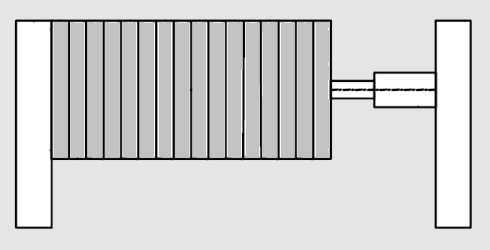
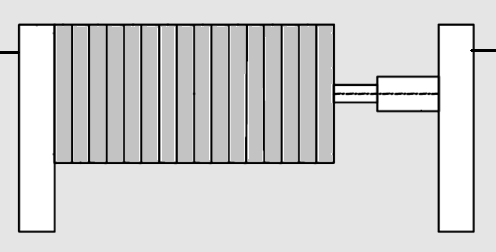
ProcessView GUI complete

Changed region(s): [[0.0, 0.056, 1.0, 0.952]]

diff --git a/BrewLogGui/ProcessView.cs b/BrewLogGui/ProcessView.cs
@@ -9,17 +9,17 @@ namespace BrewLogGui
     public class ProcessView : ProcessViewPictureBox
     {
         MashCopperView mashCopperView;
-        PumpView mashTransferPumpView;
+        MashTransferPumpView mashTransferPumpView;
         MashCoolerView mashCoolerView;
         MashTunView mashTunView;
-        PumpView mashFiltrationPumpView;
+        MashFiltrationPumpView mashFiltrationPumpView;
         MashFilterView mashFilterView;
         HoldingVesselView holdingVesselView;
-        PumpView wortPumpView;
+        WortPumpView wortPumpView;
         WortCopperView wortCopperView;
-        PumpView castingPumpView;
+        CastingPumpView castingPumpView;
         WhirlpoolView whirlpoolView;
-        PumpView coolingPumpView;
+        CoolingPumpView coolingPumpView;
         WortCoolerView wortCoolerView;
 
         // Equipment getters
@@ -31,7 +31,7 @@ namespace BrewLogGui
             }
         }
 
-        public PumpView MashTransferPumpView
+        public MashTransferPumpView MashTransferPumpView
         {
             get
             {
@@ -46,7 +46,7 @@ namespace BrewLogGui
             }
         }
 
-        public PumpView MashFiltrationPumpView
+        public MashFiltrationPumpView MashFiltrationPumpView
         {
             get
             {
@@ -70,7 +70,7 @@ namespace BrewLogGui
             }
         }
 
-        public PumpView WortPumpView
+        public WortPumpView WortPumpView
         {
             get
             {
@@ -86,7 +86,7 @@ namespace BrewLogGui
             }
         }
 
-        public PumpView CastingPumpView
+        public CastingPumpView CastingPumpView
         {
             get
             {
@@ -110,7 +110,7 @@ namespace BrewLogGui
             }
         }
 
-        public PumpView CoolingPumpView
+        public CoolingPumpView CoolingPumpView
         {
             get
             {
@@ -130,9 +130,11 @@ namespace BrewLogGui
         public ProcessView()
         {
             this.Size = new Size(1000, 500);
-            //String imgPathRel = GetImagePath("house.jpg");
+            String imgPathRel = GetImagePath("process_view.png");
 
-            //this.Image = new Bitmap(imgPathRel);
+            this.Image = new Bitmap(imgPathRel);
+            ScaleImage(this);
+
             this.BorderStyle = BorderStyle.FixedSingle;
             this.BackColor = Color.FromArgb(229,229,229);
             this.Show();
@@ -142,47 +144,48 @@ namespace BrewLogGui
 
         }
 
-        private void SetUpProcessEquipmentViews()
+        protected void SetUpProcessEquipmentViews()
         {
-            wortCoolerView = new WortCoolerView();
-            SetupProcessEquipmentView(wortCoolerView, 850, 200);
 
-            coolingPumpView = new PumpView("Cooling Pump");
-            SetupProcessEquipmentView(coolingPumpView, 800, 200);
+
+            wortCoolerView = new WortCoolerView();
+            SetupProcessEquipmentView(wortCoolerView, 915, 247);
+
+            coolingPumpView = new CoolingPumpView();
+            SetupProcessEquipmentView(coolingPumpView, 859, 245);
 
             whirlpoolView = new WhirlpoolView();
-            SetupProcessEquipmentView(whirlpoolView, 750, 0);
+            SetupProcessEquipmentView(whirlpoolView, 830, 90);
 
-            castingPumpView = new PumpView("Casting Pump");
-            SetupProcessEquipmentView(castingPumpView, 700, 200);
+            castingPumpView = new CastingPumpView();
+            SetupProcessEquipmentView(castingPumpView, 785, 245);
 
             wortCopperView = new WortCopperView();
-            SetupProcessEquipmentView(wortCopperView, 625, 0);
+            SetupProcessEquipmentView(wortCopperView, 678, 72);
 
-            wortPumpView = new PumpView("Wort Pump");
-            SetupProcessEquipmentView(wortPumpView, 600, 200);
+            wortPumpView = new WortPumpView();
+            SetupProcessEquipmentView(wortPumpView, 635, 240);
 
             holdingVesselView = new HoldingVesselView();
-            SetupProcessEquipmentView(holdingVesselView, 445, 0);
+            SetupProcessEquipmentView(holdingVesselView, 555, 80);
 
             mashFilterView = new MashFilterView();
-            SetupProcessEquipmentView(mashFilterView, 300, 200);
+            SetupProcessEquipmentView(mashFilterView, 376, 243);
 
-            mashFiltrationPumpView = new PumpView("Mash Filtration Pump");
-            SetupProcessEquipmentView(mashFiltrationPumpView, 250, 200);
+            mashFiltrationPumpView = new MashFiltrationPumpView();
+            SetupProcessEquipmentView(mashFiltrationPumpView, 319, 245);
 
             mashTunView = new MashTunView();
-            SetupProcessEquipmentView(mashTunView, 175, 0);
+            SetupProcessEquipmentView(mashTunView, 239, 50);
 
             mashCoolerView = new MashCoolerView();
-            SetupProcessEquipmentView(mashCoolerView, 85, 200);
+            SetupProcessEquipmentView(mashCoolerView, 175, 247);
 
-            mashTransferPumpView = new PumpView("Mash Transfer Pump");
-            SetupProcessEquipmentView(mashTransferPumpView, 0, 200);
+            mashTransferPumpView = new MashTransferPumpView();
+            SetupProcessEquipmentView(mashTransferPumpView, 123, 245);
 
             mashCopperView = new MashCopperView();
-            SetupProcessEquipmentView(mashCopperView, 0,0);
-
+            SetupProcessEquipmentView(mashCopperView, 85,50);
         }
 
         private void SetupProcessEquipmentView(ProcessEquipmentView processEquipmentView,

diff --git a/BrewLogGui/ProcessEquipmentViews/MashCopperView.cs b/BrewLogGui/ProcessEquipmentViews/MashCopperView.cs
@@ -1,17 +1,21 @@
 using System;
 namespace BrewLogGui.ProcessEquipmentViews
 {
-    public class MashCopperView : MashVesselView
+    public class MashCopperView : ProcessEquipmentView
     {
+        private static string _myRunFileName = "mash_copper_running.png";
+        private static string _myStopFileName = "mash_copper_idle.png";
         private static string _myProcessEquipment = "Mash Copper";
 
-        public MashCopperView() : this(_myProcessEquipment)
+        public MashCopperView() : this(_myProcessEquipment, _myStopFileName)
         {
             _processEquipment = _myProcessEquipment;
+            _stopFileName = _myStopFileName;
+            _runFileName = _myRunFileName;
         }
 
-        public MashCopperView(string processEquipment)
-            : base(processEquipment)
+        public MashCopperView(string processEquipment, string stopFileName)
+            : base(processEquipment, stopFileName)
         {
 
         }

diff --git a/BrewLogGui/ProcessEquipmentViews/MashTunView.cs b/BrewLogGui/ProcessEquipmentViews/MashTunView.cs
@@ -1,17 +1,22 @@
 using System;
 namespace BrewLogGui.ProcessEquipmentViews
 {
-    public class MashTunView : MashVesselView
+    public class MashTunView : ProcessEquipmentView
     {
+        private static string _myRunFileName = "mash_tun_running.png";
+        private static string _myStopFileName = "mash_tun_idle.png";
         private static string _myProcessEquipment = "Mash Tun";
 
-        public MashTunView() : this(_myProcessEquipment)
+        public MashTunView() : this(_myProcessEquipment, _myStopFileName)
         {
             _processEquipment = _myProcessEquipment;
+            _stopFileName = _myStopFileName;
+            _runFileName = _myRunFileName;
+            //
         }
 
-        public MashTunView(string processEquipment)
-            : base(processEquipment)
+        public MashTunView(string processEquipment, string stopFileName)
+            : base(processEquipment, stopFileName)
         {
 
         }

diff --git a/BrewLogGui/ProcessEquipmentViews/MashFiltrationPumpView.cs b/BrewLogGui/ProcessEquipmentViews/MashFiltrationPumpView.cs
@@ -1,0 +1,24 @@
+using System;
+namespace BrewLogGui.ProcessEquipmentViews
+{
+    public class MashFiltrationPumpView : ProcessEquipmentView
+    {
+        private static string _myRunFileName = "pump_top_to_right_running.png";
+        private static string _myStopFileName = "pump_top_to_right_idle.png";
+        private static string _myProcessEquipment = "Mash Filter Pump";
+
+        public MashFiltrationPumpView() : this(_myProcessEquipment, _myStopFileName)
+        {
+            _processEquipment = _myProcessEquipment;
+            _stopFileName = _myStopFileName;
+            _runFileName = _myRunFileName;
+        }
+
+        public MashFiltrationPumpView(string processEquipment, string stopFileName)
+            : base(processEquipment, stopFileName)
+        {
+
+        }
+
+    }
+}

diff --git a/BrewLogGui/ProcessEquipmentViews/MashTransferPumpView.cs b/BrewLogGui/ProcessEquipmentViews/MashTransferPumpView.cs
@@ -1,0 +1,24 @@
+using System;
+namespace BrewLogGui.ProcessEquipmentViews
+{
+    public class MashTransferPumpView : ProcessEquipmentView
+    {
+        private static string _myRunFileName = "pump_top_to_right_running.png";
+        private static string _myStopFileName = "pump_top_to_right_idle.png";
+        private static string _myProcessEquipment = "Mash Pump";
+
+        public MashTransferPumpView() : this(_myProcessEquipment, _myStopFileName)
+        {
+            _processEquipment = _myProcessEquipment;
+            _stopFileName = _myStopFileName;
+            _runFileName = _myRunFileName;
+        }
+
+        public MashTransferPumpView(string processEquipment, string stopFileName)
+            : base(processEquipment, stopFileName)
+        {
+
+        }
+
+    }
+}

diff --git a/BrewLogGui/ProcessEquipmentViews/CoolingPumpView.cs b/BrewLogGui/ProcessEquipmentViews/CoolingPumpView.cs
@@ -1,0 +1,24 @@
+using System;
+namespace BrewLogGui.ProcessEquipmentViews
+{
+    public class CoolingPumpView : ProcessEquipmentView
+    {
+        private static string _myRunFileName = "pump_top_to_right_running.png";
+        private static string _myStopFileName = "pump_top_to_right_idle.png";
+        private static string _myProcessEquipment = "Cooling Pump";
+
+        public CoolingPumpView() : this(_myProcessEquipment, _myStopFileName)
+        {
+            _processEquipment = _myProcessEquipment;
+            _stopFileName = _myStopFileName;
+            _runFileName = _myRunFileName;
+        }
+
+        public CoolingPumpView(string processEquipment, string stopFileName)
+            : base(processEquipment, stopFileName)
+        {
+
+        }
+
+    }
+}

diff --git a/BrewLogGui/ProcessEquipmentViews/CastingPumpView.cs b/BrewLogGui/ProcessEquipmentViews/CastingPumpView.cs
@@ -1,0 +1,24 @@
+using System;
+namespace BrewLogGui.ProcessEquipmentViews
+{
+    public class CastingPumpView : ProcessEquipmentView
+    {
+        private static string _myRunFileName = "casting_pump_running.png";
+        private static string _myStopFileName = "casting_pump_idle.png";
+        private static string _myProcessEquipment = "Casting Pump";
+
+        public CastingPumpView() : this(_myProcessEquipment, _myStopFileName)
+        {
+            _processEquipment = _myProcessEquipment;
+            _stopFileName = _myStopFileName;
+            _runFileName = _myRunFileName;
+        }
+
+        public CastingPumpView(string processEquipment, string stopFileName)
+            : base(processEquipment, stopFileName)
+        {
+
+        }
+
+    }
+}

diff --git a/BrewLogGui/ProcessEquipmentViews/WortPumpView.cs b/BrewLogGui/ProcessEquipmentViews/WortPumpView.cs
@@ -1,0 +1,24 @@
+using System;
+namespace BrewLogGui.ProcessEquipmentViews
+{
+    public class WortPumpView : ProcessEquipmentView
+    {
+        private static string _myRunFileName = "wort_pump_running.png";
+        private static string _myStopFileName = "wort_pump_idle.png";
+        private static string _myProcessEquipment = "Wort Pump";
+
+        public WortPumpView() : this(_myProcessEquipment, _myStopFileName)
+        {
+            _processEquipment = _myProcessEquipment;
+            _stopFileName = _myStopFileName;
+            _runFileName = _myRunFileName;
+        }
+
+        public WortPumpView(string processEquipment, string stopFileName)
+            : base(processEquipment, stopFileName)
+        {
+
+        }
+
+    }
+}

diff --git a/BrewLogGui/AppForm.cs b/BrewLogGui/AppForm.cs
@@ -54,12 +54,12 @@ namespace BrewLogGui
         // Handler
         void RunBtn_Click(object sender, EventArgs e)
         {
-            processView.MashCoolerView.RunEquipment();
+            processView.WhirlpoolView.RunEquipment();
         }
 
         void StopBtn_Click(object sender, EventArgs e)
         {
-            processView.MashCoolerView.StopEquipment();
+            processView.WhirlpoolView.StopEquipment();
         }
 
     }

diff --git a/BrewLogGui/ProcessEquipmentViews/ProcessViewPictureBox.cs b/BrewLogGui/ProcessEquipmentViews/ProcessViewPictureBox.cs
@@ -48,7 +48,7 @@ namespace BrewLogGui.ProcessEquipmentViews
             pictureBox.Image = new Bitmap(image, newSize);
             pictureBox.Size = image.Size;
             pictureBox.SizeMode = PictureBoxSizeMode.AutoSize;
-            pictureBox.BorderStyle = BorderStyle.FixedSingle;
+            //pictureBox.BorderStyle = BorderStyle.FixedSingle;
             //return image.Size;
         }
     }

diff --git a/BrewLogGui/ProcessEquipmentViews/WhirlpoolView.cs b/BrewLogGui/ProcessEquipmentViews/WhirlpoolView.cs
@@ -12,6 +12,7 @@ namespace BrewLogGui.ProcessEquipmentViews
             _processEquipment = _myProcessEquipment;
             _stopFileName = _myStopFileName;
             _runFileName = _myRunFileName;
+            ViewTop = 50;
         }
 
         public WhirlpoolView(string processEquipment, string stopFileName)
